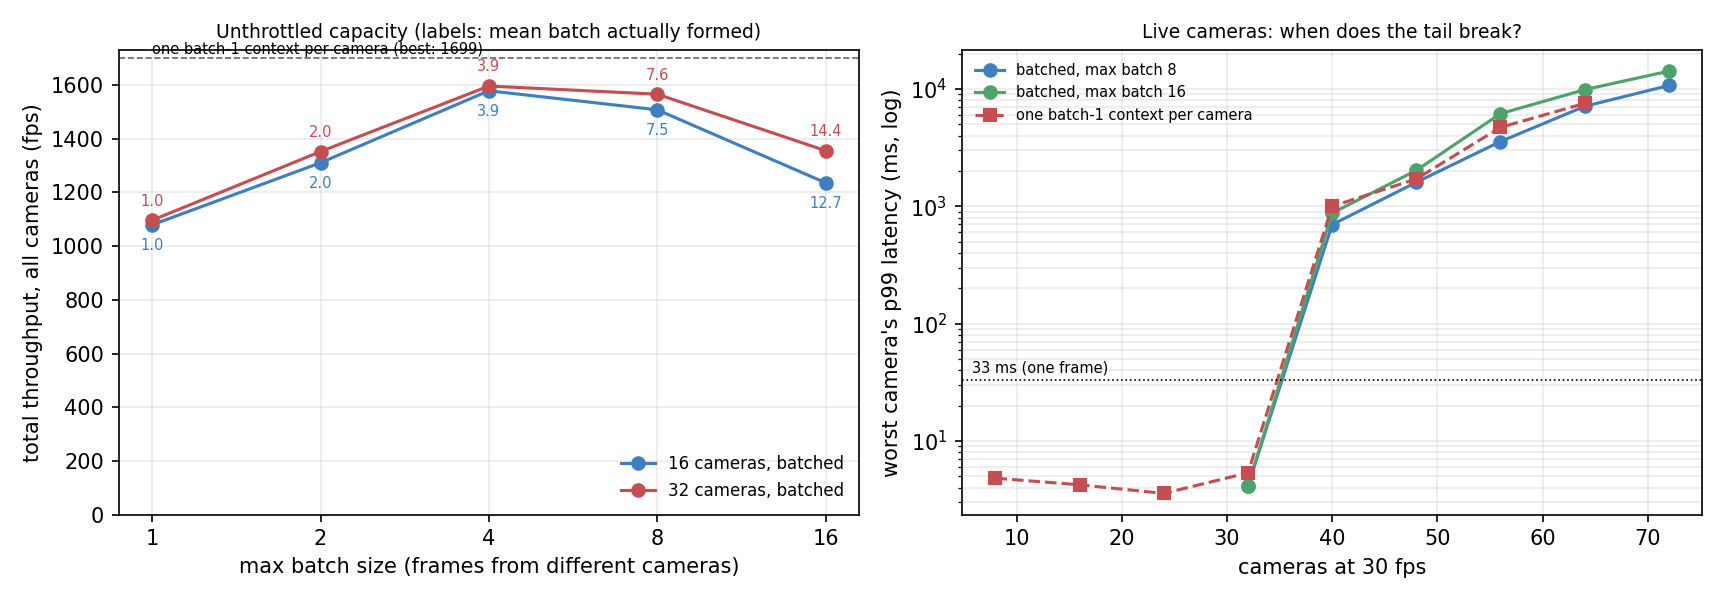
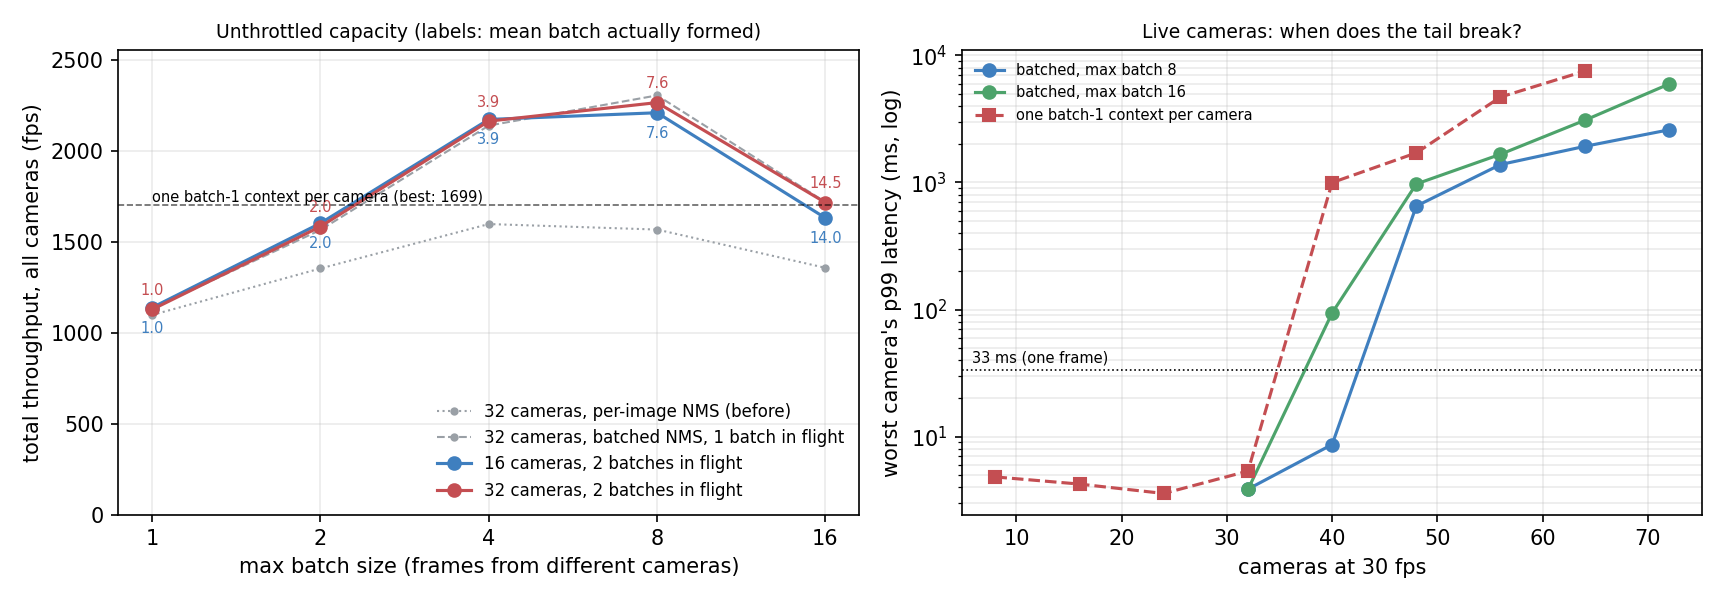
docs: update the batching section and plot for batched NMS

diff --git a/tools/plot_batching.py b/tools/plot_batching.py
@@ -2,7 +2,8 @@
 """Cross-camera batching vs one batch-1 context per camera.
 
 left:  unthrottled total throughput vs max batch size (bench/results/batched_fps0_*), with the
-       per-camera-context design's capacity (multistream_*_fps0) as a reference line
+       32-camera ablations (batched-inflight1_*, batched-branchnms_*) and the per-camera-context
+       design's capacity (multistream_*_fps0) as a reference line
 right: 30 fps cameras, worst stream's p99 vs number of cameras, batched vs per-camera contexts
 
     python tools/plot_batching.py docs/batching.png
@@ -33,14 +34,24 @@ def main() -> None:
 
     fig, (a, b) = plt.subplots(1, 2, figsize=(11.5, 4), dpi=150)
 
-    # Capacity vs max batch, one line per camera count.
+    # Capacity vs max batch, one line per camera count, plus the 32-camera ablations: batched
+    # NMS with one batch in flight, and the first version (per-image NMS as graph branches).
+    for pattern, style, label in [
+        ("batched-branchnms_fps0_n32_b*.json", ":", "32 cameras, per-image NMS (before)"),
+        ("batched-inflight1_fps0_n32_b*.json", "--", "32 cameras, batched NMS, 1 batch in flight"),
+    ]:
+        rs = sorted(load(pattern), key=lambda r: r["max_batch"])
+        if rs:
+            a.plot([r["max_batch"] for r in rs], [r["aggregate_fps"] for r in rs], "o" + style,
+                   color="#9aa0a6", ms=3, lw=1, label=label)
     cap = load("batched_fps0_n*_b*.json")
     # The second line sits just above the first, so its labels go above and the first's below.
     for i, n in enumerate(sorted({r["streams"] for r in cap})):
         color = ["#3f7fbf", "#c44e52"][i % 2]
         rs = sorted((r for r in cap if r["streams"] == n), key=lambda r: r["max_batch"])
         xs = [r["max_batch"] for r in rs]
-        a.plot(xs, [r["aggregate_fps"] for r in rs], "o-", color=color, label=f"{n} cameras, batched")
+        a.plot(xs, [r["aggregate_fps"] for r in rs], "o-", color=color,
+               label=f"{n} cameras, 2 batches in flight")
         for r in rs:
             a.annotate(f"{r['batch_size']['mean']:.1f}", (r["max_batch"], r["aggregate_fps"]),
                        textcoords="offset points", xytext=(0, 7 if i else -12), ha="center", fontsize=7,
@@ -54,7 +65,7 @@ def main() -> None:
     a.set_xticks([1, 2, 4, 8, 16], ["1", "2", "4", "8", "16"])
     a.set_xlabel("max batch size (frames from different cameras)")
     a.set_ylabel("total throughput, all cameras (fps)")
-    a.set_ylim(bottom=0)
+    a.set_ylim(0, a.get_ylim()[1] * 1.08)  # room for the labels above the top point
     a.set_title("Unthrottled capacity (labels: mean batch actually formed)", fontsize=9)
     a.legend(fontsize=8, frameon=False, loc="lower right")
 

diff --git a/README.md b/README.md
@@ -93,34 +93,54 @@ median is still 2.7 ms, but p99 jumps to ~0.7 s.
 
 [`vrt_batched`](apps/vrt_batched.cpp) puts every camera's decoded frames in one queue. A batcher
 thread takes up to *B* of them, letterboxes each into its slot of one input tensor, and runs the
-smallest static-batch engine (1/2/4/8/16) that fits. NMS then runs per image as parallel branches
-of one CUDA graph. Batched detections match the unbatched GPU path on 99.94% of boxes, mean IoU
-0.998 ([`compare_batched_b4_barn022.json`](bench/results/compare_batched_b4_barn022.json)). They
-aren't bit-identical because each batch size is a separate engine with its own FP16 tactics.
+smallest static-batch engine (1/2/4/8/16) that fits. Then batched NMS runs once for the whole
+batch, and one copy brings every image's detections back.
 
-| YOLOX-S FP16, 32 cameras flat out | max batch 1 | 4 | 16 | one context per camera |
-|---|---|---|---|---|
-| mean batch formed | 1.0 | 3.9 | 14.4 | 1 |
-| engine time per image | 0.60 ms | 0.37 ms | 0.37 ms | 0.60 ms (same engine) |
-| all GPU work per image (preprocess + engine + NMS) | 0.80 ms | 0.56 ms | 0.67 ms | 0.77 ms |
-| total throughput | 1,096 fps | **1,596 fps** | 1,356 fps | **1,684 fps** |
-| worst camera's p99 | 59 ms | 44 ms | 61 ms | 68 ms |
+| YOLOX-S FP16, 32 cameras flat out | max batch 1 | 4 | 8 | 16 | one context per camera |
+|---|---|---|---|---|---|
+| mean batch formed | 1.0 | 3.9 | 7.6 | 14.5 | 1 |
+| engine time per image | 0.62 ms | 0.38 ms | 0.36 ms | 0.39 ms | 0.60 ms (same engine) |
+| NMS time per image | 0.15 ms | 0.022 ms | 0.015 ms | 0.014 ms | 0.15 ms |
+| total throughput | 1,127 fps | 2,161 fps | **2,264 fps** | 1,714 fps | **1,684 fps** |
+| worst camera's p99 | 57 ms | 30 ms | 34 ms | 43 ms | 68 ms |
+| GPU / NVDEC busy (NVML) | 79% / 40% | 84% / 75% | 83% / 82% | 68% / 66% | 91% / 65% |
 
-Batching makes the engine 1.6x cheaper per image, with no further gain past batch 4. End to end
-it still loses to per-camera contexts by ~6%, for two reasons:
+At max batch 8, batching does 2,264 fps on 32 cameras: 34% more than one batch-1 context per
+camera, with half the tail latency. The first version reached 1,596 fps, short of per-camera
+contexts, because only the engine was batched. NMS still ran per image, as parallel branches of
+a CUDA graph, and it got *more* expensive per image as batches grew. What changed:
 
-- **One batcher means one batch at a time.** It waits for each batch's results before launching
-  the next, so its stream is ~90% busy while NVML shows the GPU only ~73% busy. With a context
-  per camera, many streams' kernels overlap and the GPU reaches ~91%.
-- **NMS doesn't batch.** Per-image NMS, even as parallel graph branches, gets slower per image as
-  the batch grows: preprocess plus NMS is ~0.2 ms per image at batch 1 and ~0.3 ms at batch 16.
-  A batched NMS kernel over `[B, 8400, 85]` is the next step.
+- **Batched NMS** ([`postprocess.cu`](src/kernels/postprocess.cu), `GpuBatchPostprocess`). One
+  score kernel covers all of `[B, 8400, 85]`. One CUB radix sort then covers all B x 8400
+  anchors, because the image index sits in the top bits of a 56-bit key: inverted image,
+  score, inverted anchor. Each image's candidates come out together, in the same order the
+  per-image sort gives. One mask kernel and one walk kernel, with a block per image, finish the
+  job. NMS costs 0.015 ms per image at batch 8, against 0.15 ms for one image on its own.
+  Results are bit-identical to the per-image kernels, which
+  [`test_gpu_kernels.py`](tests/test_gpu_kernels.py) checks for batches of 1-16, including
+  empty images, exact score ties and duplicate images. At max batch 1, `vrt_batched` reproduces
+  the unbatched GPU path's detections on barn022 exactly
+  ([`compare_batched_b1_barn022.json`](bench/results/compare_batched_b1_barn022.json)).
+  Larger batches use other engines with their own FP16 tactics. They match on 99.94% of boxes,
+  mean IoU 0.998 ([`compare_batched_b4_barn022.json`](bench/results/compare_batched_b4_barn022.json)).
+- **Two batches in flight** (`--in-flight 2`, the default) queues batch n+1 before the host
+  waits on batch n. It makes no measurable difference: 2,264 fps vs 2,303 with one in flight in
+  the run above, and 2,263 vs 2,258 averaged over three sweeps. Once NMS is batched, the batch
+  stream is 93-95% occupied either way. The host's turnaround between batches was never the gap.
 
-With live cameras, batching changes nothing that matters. Unsynchronised 30 fps cameras arrive
-one at a time, and the batcher doesn't wait, so batches stay at ~1.1 frames up to 32 cameras
-(worst p99 4.1 ms, vs 5.3 ms per camera). Bigger batches only form once a queue builds, and by
-then the GPU is past capacity. The knee stays between 32 and 40 cameras. Waiting a few ms to
-fill a batch would trade latency for throughput that real-time loads don't need.
+What limits it now is decode, more than compute. Across every run, NVDEC load tracks throughput
+at about 35-39% per 1,000 fps. That puts the decoders' ceiling at roughly 2,600-2,900 fps, and
+max batch 8 already runs them at 82%. The engine stops getting cheaper per image after batch 4.
+Max batch 16 falls back to 1,714 fps, with both GPU and NVDEC at ~67%. In its batches, the
+preprocess span (which includes waiting for each frame's decode-side ready event) grows from
+0.04 to 0.15 ms per image. The batcher is waiting for frames, not computing.
+
+With live cameras, batching now moves the knee. Unsynchronised 30 fps cameras arrive one at a
+time, and the batcher doesn't wait, so batches stay around 1.1 frames. But when a burst builds
+a queue, the next batch is bigger and cheaper per frame, so the queue drains. With max batch 8,
+40 cameras run at worst p99 8.7 ms, where per-camera contexts are at 998 ms. The knee moves from
+32-40 cameras to 40-48. Waiting a few ms to fill batches would trade latency for throughput that
+these loads don't need.
 
 Building this turned up a crash in about one run in twenty. A CUDA graph was being captured
 lazily while other threads decoded, which sometimes invalidated the capture. The error path then
@@ -210,7 +230,7 @@ from 0.57 to ~2.5 ms. My kernels write a fixed-size result block and take ~0.15 
 | GPU score filter + NMS | [`src/kernels/postprocess.cu`](src/kernels/postprocess.cu) |
 | TensorRT engine, contexts, CUDA graphs | [`src/trt_engine.cpp`](src/trt_engine.cpp) |
 | Per-camera pipeline (streams, events, pinned slots) | [`src/gpu_pipeline.cpp`](src/gpu_pipeline.cpp) |
-| Cross-camera batching (batch engines, parallel NMS graph) | [`src/batch_inference.cpp`](src/batch_inference.cpp), [`apps/vrt_batched.cpp`](apps/vrt_batched.cpp) |
+| Cross-camera batching (batch engines, batched NMS) | [`src/batch_inference.cpp`](src/batch_inference.cpp), [`apps/vrt_batched.cpp`](apps/vrt_batched.cpp) |
 | Apps: single stream, multi-stream, batched, decode bench, COCO | [`apps/`](apps) |
 | CPU reference path (M1) and baseline (M0) | [`src/sync_pipeline.cpp`](src/sync_pipeline.cpp), [`tools/baseline.py`](tools/baseline.py) |
 | ONNX export, INT8 quantization, NMS-layer variant | [`tools/export_onnx.py`](tools/export_onnx.py), [`tools/quantize_int8.py`](tools/quantize_int8.py), [`tools/add_nms.py`](tools/add_nms.py) |
@@ -289,8 +309,10 @@ python bench/make_tables.py      # regenerate the tables in this README
 - **WSL2.** Kernel launches cost more than on native Linux (that's part of why CUDA graphs
   helped so much), and host-side jitter shows up in the baseline's p99. Not re-measured on
   bare-metal Linux.
-- **Cross-camera batching doesn't beat per-camera contexts yet** (1,596 vs 1,684 fps). It needs
-  a batched NMS kernel and more than one batch in flight.
+- **Batching runs close to the decode limit.** Cross-camera batching reaches 2,264 fps on 32
+  cameras with NVDEC at 82%, and decode load rises in step with throughput. Going further takes
+  more decode headroom, not bigger batches. Live cameras only get batches of ~1 unless the
+  batcher waits.
 - **COCO model, no fine-tuning.** Wide barn shots work well; dark close-ups and calves get
   misclassified (dog, sheep, horse), as the demo shows. Fine-tuning on cattle footage would fix
   that. The footage is barn-style, not real fixed-mount barn cameras.
